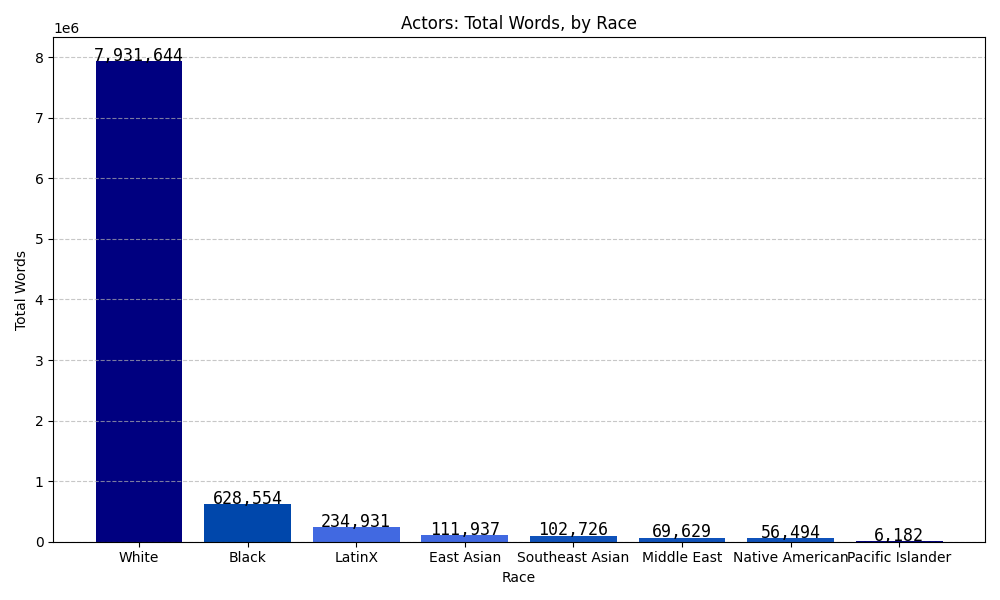
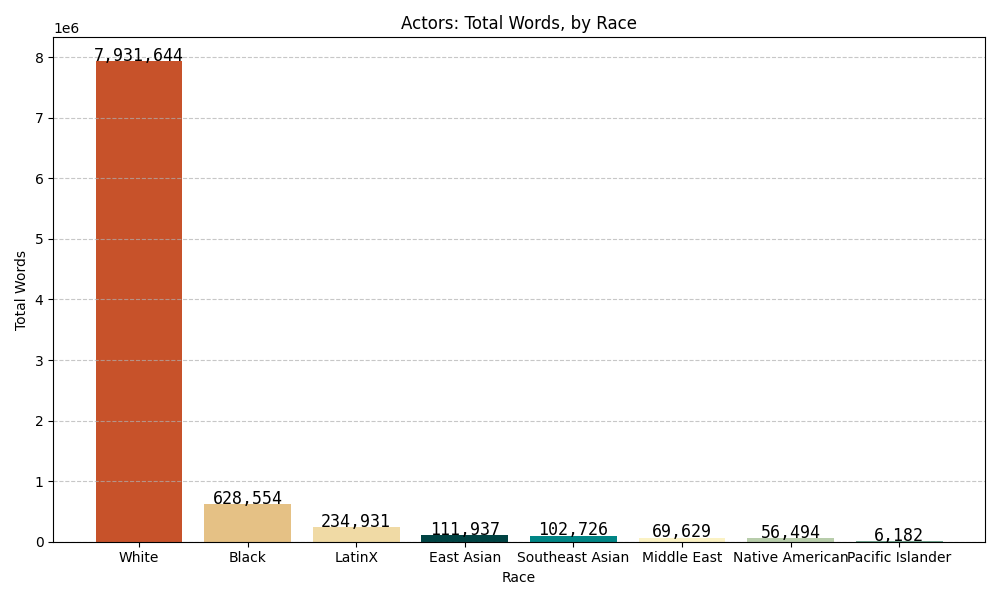
styling changes

Changed region(s): [[0.093, 0.09, 0.62, 0.93], [0.744, 0.87, 0.837, 0.93], [0.651, 0.87, 0.713, 0.93]]

diff --git a/analytics/movie_race_composition.py b/analytics/movie_race_composition.py
@@ -80,7 +80,6 @@ plt.bar(r, bars[5], bottom=bottoms[5], color='#74a892', edgecolor='white', width
 plt.bar(r, bars[6], bottom=bottoms[6], color='#008585', edgecolor='white', width=barWidth, label='South Asian')
 plt.bar(r, bars[7], bottom=bottoms[7], color='#004343', edgecolor='white', width=barWidth, label='East Asian')
 
-# plt.legend(loc='upper left', bbox_to_anchor=(1,1), ncol=1)
 plt.figlegend(bbox_to_anchor=(0.5, 0.75), ncol=1)
 plt.title("Dialog Composition by Race in Movies")
 plt.xticks(r, names, fontweight='bold')

diff --git a/analytics/words_by_race.py b/analytics/words_by_race.py
@@ -19,7 +19,7 @@ races = [x[0] for x in all]
 words = [x[1] for x in all]
 
 plt.figure(figsize=(10, 6))
-plt.bar(races, words, color=['#000080', '#0047AB', 'royalblue', 'royalblue', '#0F52BA', '#0F52BA', '#0F52BA'])
+plt.bar(races, words, color=['#c7522a', '#e5c185', '#f0daa5', '#004343', '#008585', '#fbf2c4', '#b8cdab', '#74a892'])
 plt.xlabel('Race')
 plt.ylabel('Total Words')
 plt.title('Actors: Total Words, by Race')
